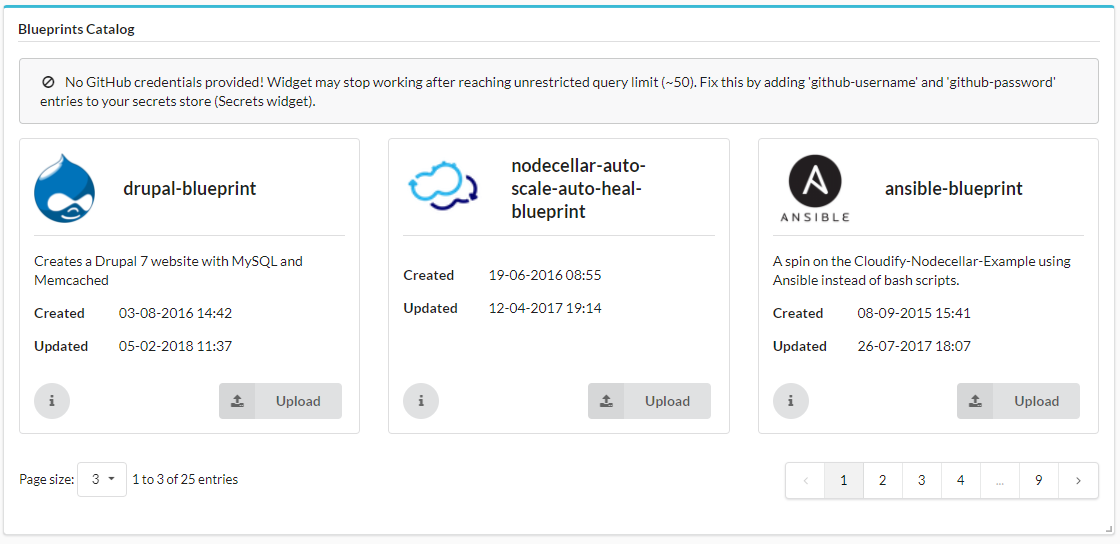
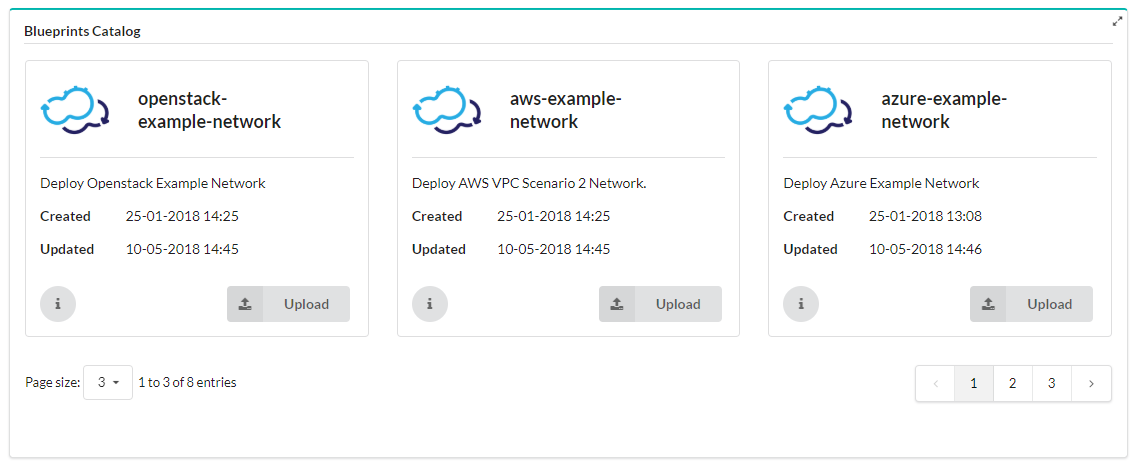
Updated "Cloudify Catalog Page" page

diff --git a/content/working_with/console/default-widgets-ref.md b/content/working_with/console/default-widgets-ref.md
@@ -71,6 +71,16 @@ In the widget configuration dialog, you can toggle on the **Enable click to dril
 Displays blueprints (as a table or tile view) that exist in a repository under a Github account. 
 
 #### Configuration
+
+TODO: Update!
+By default, the widget is configured to retrieve the data from Blueprint Examples JSON. If you unset URL in the configuration, the blueprint examples will be fetched from the configured GitHub account (by default from `cloudify-examples` user). You can change the repository in the widget's configuration by specifying the username for another open GitHub repository from which you want to retrieve data. You can also define filters for the data query in the **Optional blueprints filter** field, to retrieve only specific types of blueprints.
+![configure-blueprints-catalog]( /images/ui/widgets/configure-blueprints-catalog.png )
+
+You can configure the widget to display data in either catalog or table view. If the Github repository contains a `blueprint.png` file, then this file will appear as the icon of the blueprint in the catalog.
+
+
+To initiate uploading a blueprint in the catalog to the current tenant in Cloudify Manager, click **Upload** on the required blueprint. The uploaded blueprint appears in the Local Blueprints page. 
+
 You must specify the name of the user account in the widget's settings. The widget includes an `upload` option for each of the blueprints, which lets you easily upload to the manager. 
 
 You can create a filter query in the configuration to specify the blueprints that appear. 
@@ -248,6 +258,18 @@ Displays text provided in the configuration of the widget.
 
 #### Configuration
 Specify text for header, content part as well as text style: font, size and color.
+
+### Plugins Catalog
+
+TODO 
+
+![plugins-catalog]( /images/ui/widgets/plugins-catalog.png )
+
+#### Configuration
+
+TODO
+
+![configure-plugins-catalog]( /images/ui/widgets/configure-plugins-catalog.png )
 
 ### Secrets Store Management
 Displays a list of secrets and enables their management. In the widget, you can click on the eye icon to display the value of the secret.

diff --git a/content/working_with/console/cloudify-catalog-page.md b/content/working_with/console/cloudify-catalog-page.md
@@ -1,0 +1,20 @@
+---
+layout: bt_wiki
+title: Cloudify Catalog Page
+category: Cloudify Console
+draft: false
+aliases: ["/manager_webui/blueprints-catalog-page/", "/working_with/console/blueprints-catalog-page/"]
+
+weight: 125
+---
+
+The Cloudify Catalog page contains two widgets showing catalog of blueprint examples and catalog of available plugins. 
+
+The Blueprints Catalog widget presents working blueprint examples in a catalog view.
+![blueprints-catalog]( /images/ui/widgets/blueprints-catalog.png )
+More details about how to use or configure it you can find [here]({{< relref "working_with/console/default-widgets-ref/#blueprints-catalog" >}}).
+
+
+The Plugins Catalog widget presents list of Cloudify plugins.
+![blueprints-catalog]( /images/ui/widgets/plugins-catalog.png )
+More details about how to use or configure it you can find [here]({{< relref "working_with/console/default-widgets-ref/#plugins-catalog" >}}).
